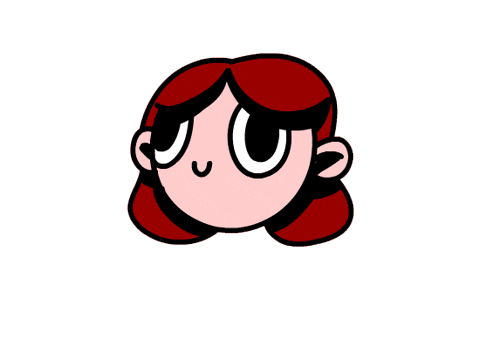
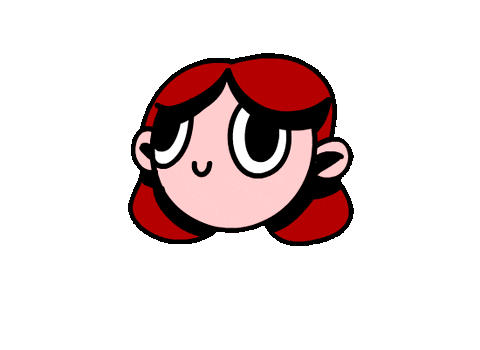
feat: modal improvements, transparent gif & png, ESC/background close, z-index fixes

diff --git a/index.html b/index.html
@@ -3,13 +3,11 @@
   <head>
     <meta charset="UTF-8" />
     <meta name="viewport" content="width=device-width, initial-scale=1.0" />
-    <meta name="theme-color" content="#ff3333" />
+    <meta name="theme-color" content="#5233ff" />
     <meta name="apple-mobile-web-app-capable" content="yes" />
     <meta name="apple-mobile-web-app-status-bar-style" content="black-translucent"/>
     <title>Модалка</title>
-    <link rel="preconnect" href="https://fonts.googleapis.com" />
-    <link rel="preconnect" href="https://fonts.gstatic.com" crossorigin />
-    <link href="https://fonts.googleapis.com/css2?family=Montserrat:ital,wght@0,100..900;1,100..900&family=TikTok+Sans:opsz,wght@12..36,300..900&display=swap" rel="stylesheet"/>
+    <link href="https://fonts.googleapis.com/css2?family=Montserrat:ital,wght@0,100..900;1,100..900&display=swap" rel="stylesheet">
     <link rel="stylesheet" href="style.css"/>
   </head>
   <body>
@@ -20,12 +18,12 @@
     <main class="main">
       <div class="modal-trigger">
         <button class="open-modal">
-          <img id="head-img" src="img/head.png" alt="Голова" />
+          <img id="head-img" src="img/head-ts.png" alt="Голова" />
         </button>
         <div class="advice">
-          <p>Привет!</p>
-          <p>Я модалка.</p>
-          <p><strong>Нажми на меня!</strong></p>
+          <p>-Привет!</p>
+          <p>-Я модалка.</p>
+          <p data-bold>-<strong>Нажми на меня!</strong></p>
         </div>
       </div>
     </main>
@@ -42,7 +40,7 @@
     </div>
 
     <footer class="footer">
-      <p>© 2025 Hellrain</p>
+      <p><b>© 2025 Hellrain</b></p>
     </footer>
 
     <script src="script.js"></script>

diff --git a/script.js b/script.js
@@ -12,15 +12,15 @@ openBtn.addEventListener('click', () => {
   if (state !== 'idle') return;
   state = 'exploding';
 
-  headImg.src = 'img/explosion.gif';
+  headImg.src = 'img/explosion-ts.gif';
 
   setTimeout(() => {
     overlay.classList.add('show');
-    headImg.src = 'img/return.gif';
+    headImg.src = 'img/return-ts.gif';
     state = 'returning';
 
     setTimeout(() => {
-      headImg.src = 'img/head.png';
+      headImg.src = 'img/head-ts.png';
       state = 'idle';
     }, returnDelay);
 
@@ -31,12 +31,31 @@ closeBtn.addEventListener('click', () => {
   overlay.classList.remove('show');
 });
 
+// Close modal when clicking outside the content area
+overlay.addEventListener('click', (event) => {
+  if (event.target === overlay) {
+    overlay.classList.remove('show');
+  }
+});
+
+// Close modal when pressing Escape key
+window.addEventListener('keydown', (event) => {
+  if (event.key === 'Escape' && overlay.classList.contains('show')) {
+    overlay.classList.remove('show');
+  }
+});
+
 // Typewriter effect for .advice
 function typeText(paragraph, text, speed, callback) {
   paragraph.textContent = '';
   paragraph.style.visibility = 'visible';
   const span = document.createElement('span');
   paragraph.appendChild(span);
+
+  if (paragraph.hasAttribute('data-bold')) {
+    span.style.fontWeight = '700';
+    }
+
   let i = 0;
 
   const interval = setInterval(() => {

diff --git a/style.css b/style.css
@@ -9,11 +9,9 @@ body {
 }
 
 body {
-  margin: 0;
   font-family: "Montserrat", sans-serif;
-  font-optical-sizing: auto;
-  font-weight: weight;
-  background: linear-gradient(to top, #fd6702, 0.01%, #ff3333);
+  margin: 0;
+  background: linear-gradient(to top, #fd6702, 50%, #5233ff);
   background-size: cover;
   background-repeat: no-repeat;
   background-position: center;
@@ -23,14 +21,15 @@ body {
   min-height: 100vh;
 }
 
+
 .header {
-  padding: 20px;
+  padding: 55px;
   text-align: center;
 }
 
 .logo {
   margin: 0;
-  font-size: 24px;
+  font-size: 38px;
 }
 
 .main {
@@ -46,6 +45,8 @@ body {
 }
 
 .open-modal {
+  position: relative;
+  z-index: 10;
   background: transparent;
   border: none;
   padding: 0;
@@ -57,8 +58,10 @@ body {
   max-width: 100%;
 }
 
+
 .advice {
   position: absolute;
+  z-index: 1;
   top: -25px;
   left: 15px;
   right: 50%;
@@ -80,8 +83,8 @@ body {
 }
 
 .footer {
-  padding: 20px;
-  font-size: 20px;
+  padding: 80px;
+  font-size: 16px;
   text-align: center;
   color: #fff;
 }
@@ -89,6 +92,7 @@ body {
 /* Modal window */
 .modal-overlay {
   position: fixed;
+  z-index: 999;
   top: 0;
   left: 0;
   width: 100%;
@@ -108,6 +112,8 @@ body {
 }
 
 .modal {
+  position: relative;
+  z-index: 1000;
   background: white;
   color: black;
   padding: 30px 40px;
